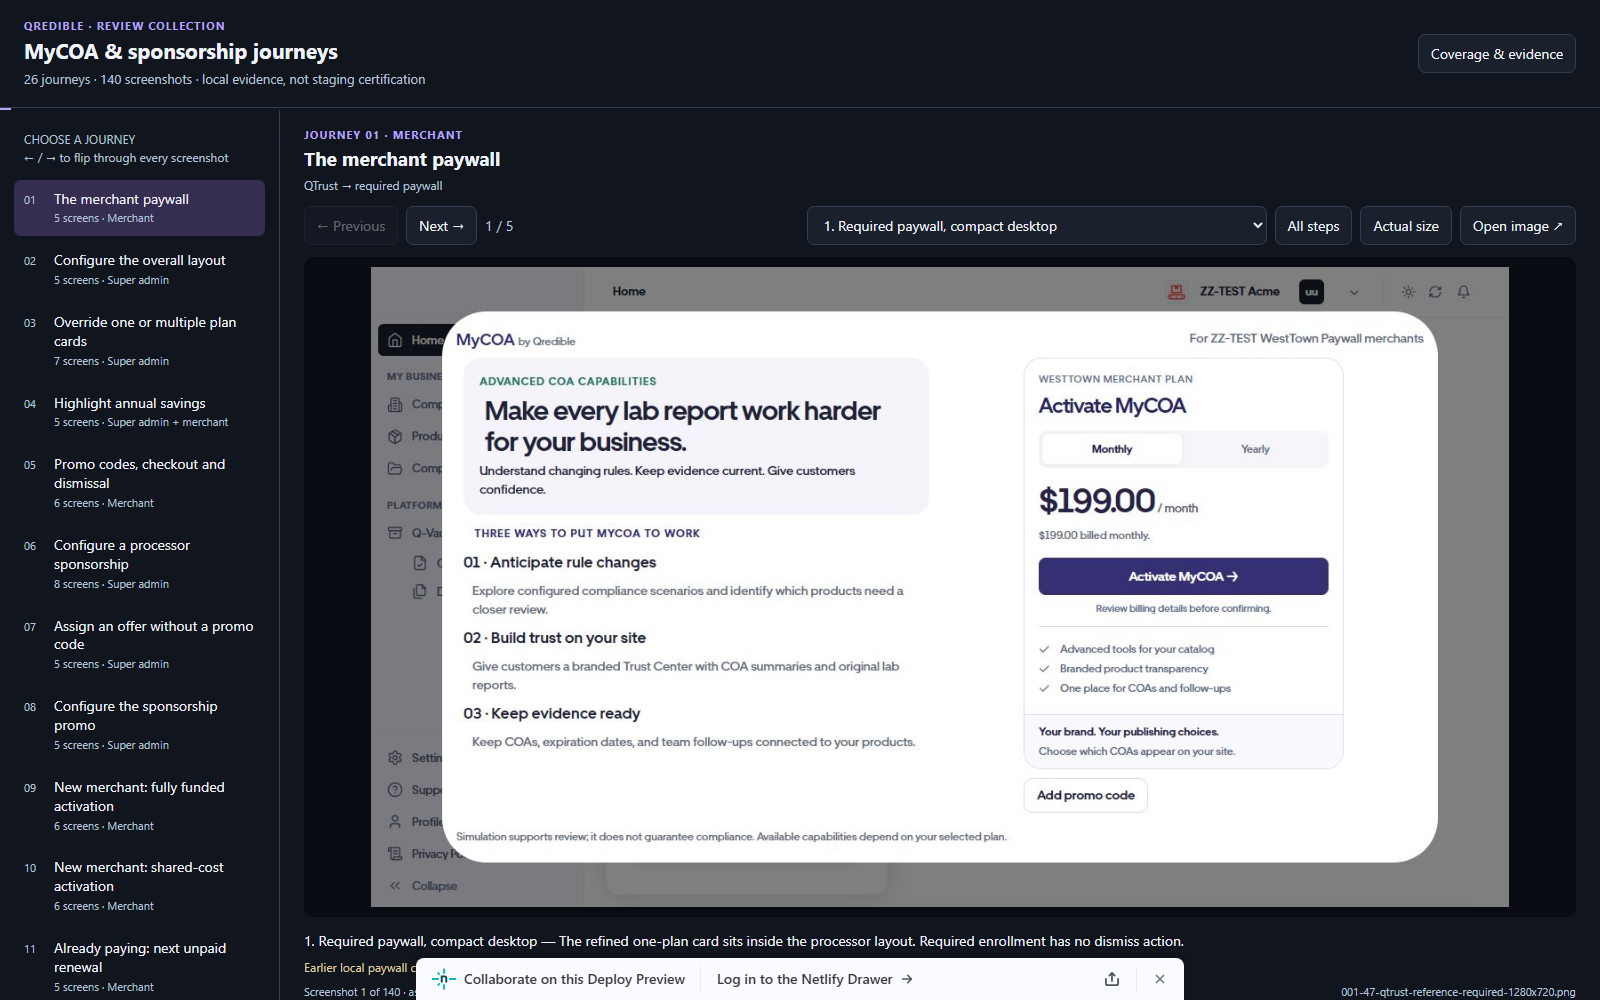
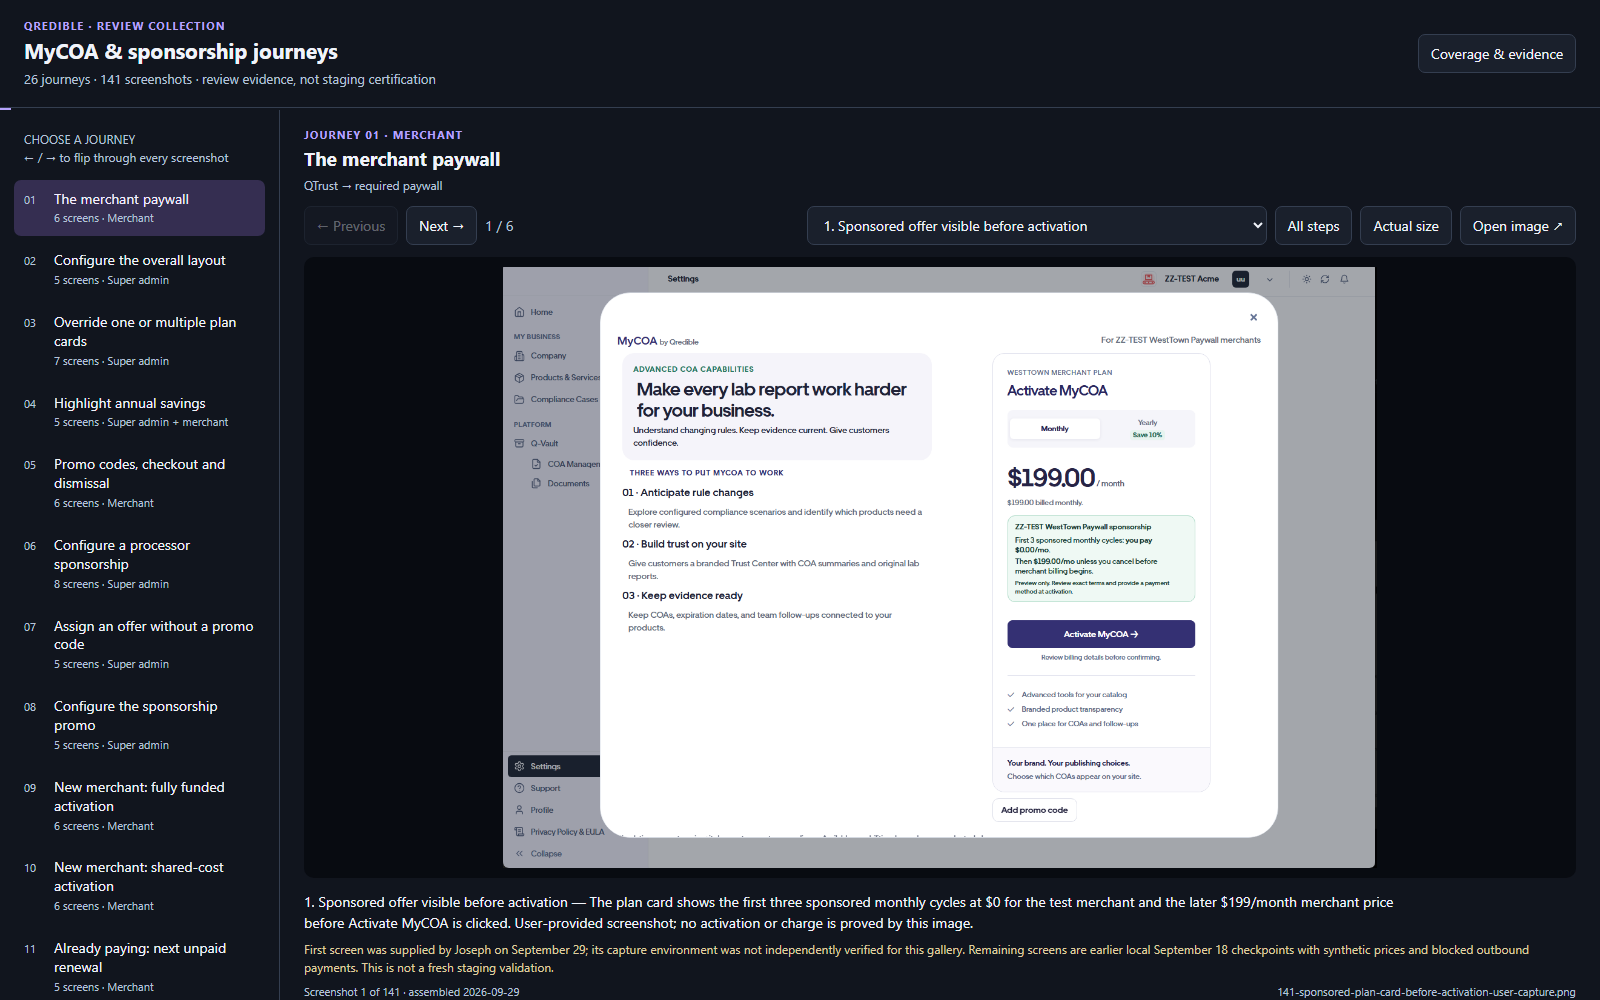
Show sponsored plan terms first in journey gallery

diff --git a/qredible/mycoa-sponsorship-journeys/index.html b/qredible/mycoa-sponsorship-journeys/index.html
@@ -14,12 +14,12 @@
 <div class="toolbar"><button id="prev" aria-label="Previous screenshot">← Previous</button><button id="next" aria-label="Next screenshot">Next →</button><span class="count" id="count" aria-live="polite"></span><label class="sr" for="step">Choose step</label><select id="step"></select><button id="grid" aria-pressed="false">All steps</button><button id="zoom" aria-pressed="false">Actual size</button><a id="original" class="button" target="_blank" rel="noopener">Open image ↗</a></div>
 <div id="stage"><img id="shot" alt=""></div><div id="thumbs"></div>
 <figcaption><p id="caption"></p><p id="boundary"></p><div class="footerline"><span id="position"></span><span id="source"></span></div></figcaption></main></div>
-<dialog id="evidence"><div class="dialog-top"><h2>What these screenshots prove</h2><button id="close">Close</button></div><p>These are existing captures from the actual QTrust and Q-Config applications through their normal UI routes. They are not reconstructed screens or design mockups. This gallery assembly did not rerun the product workflows.</p><ul><li><strong>Paywall chapters:</strong> earlier local September 18 checkpoints. They show the customization and purchase UI, not a newly deployed version.</li><li><strong>Sponsorship chapters:</strong> later local application checkpoints using isolated fixtures. Where payment processing is involved, provider responses and callbacks were simulated.</li><li><strong>Email:</strong> MailHog confirms local message capture, not external inbox receipt.</li><li><strong>Financial examples:</strong> test amounts illustrate configurable rules. They are not current production balances or customer transactions.</li><li><strong>Separate runs:</strong> examples may use different fixture companies, amounts and lifecycle states. Chapters are explanatory sequences, not one continuous customer session.</li></ul><h3>Coverage still missing</h3><p id="coverage"></p><p>Actual NMI settlement, signed public callbacks, external delivery, deployed staging behavior and a real elapsed recurring handoff cannot be certified by these images.</p><h3>Traceability</h3><p>The 140 screenshot images are copied unchanged from the local gallery. Workstation source paths and internal capture metadata are intentionally omitted from this public version. Failed-run diagnostic screenshots are excluded.</p><p>Use Previous / Next or the left and right arrow keys. “All steps” shows the current journey as thumbnails. “Actual size” lets you pan around dense screens; “Open image” opens the untouched image separately.</p></dialog>
+<dialog id="evidence"><div class="dialog-top"><h2>What these screenshots prove</h2><button id="close">Close</button></div><p>Most images are existing captures from the QTrust and Q-Config applications through their normal UI routes. The first merchant-paywall image was supplied by Joseph; its capture environment was not independently verified for this gallery. These are not reconstructed screens or design mockups. This gallery assembly did not rerun the product workflows.</p><ul><li><strong>Paywall chapters:</strong> the new sponsored-plan image shows terms before activation. The other paywall images are earlier local September 18 checkpoints; they show customization and purchase UI, not a newly deployed version.</li><li><strong>Sponsorship chapters:</strong> later local application checkpoints using isolated fixtures. Where payment processing is involved, provider responses and callbacks were simulated.</li><li><strong>Email:</strong> MailHog confirms local message capture, not external inbox receipt.</li><li><strong>Financial examples:</strong> test amounts illustrate configurable rules. They are not current production balances or customer transactions.</li><li><strong>Separate runs:</strong> examples may use different fixture companies, amounts and lifecycle states. Chapters are explanatory sequences, not one continuous customer session.</li></ul><h3>Coverage still missing</h3><p id="coverage"></p><p>Actual NMI settlement, signed public callbacks, external delivery, deployed staging behavior and a real elapsed recurring handoff cannot be certified by these images.</p><h3>Traceability</h3><p>The original 140 images are unchanged from the local gallery; the additional sponsored-plan screenshot is copied byte-for-byte from Joseph's attachment. Workstation source paths and internal capture metadata are intentionally omitted from this public version. Failed-run diagnostic screenshots are excluded.</p><p>Use Previous / Next or the left and right arrow keys. “All steps” shows the current journey as thumbnails. “Actual size” lets you pan around dense screens; “Open image” opens the untouched image separately.</p></dialog>
 <noscript>Enable JavaScript to browse the collection.</noscript>
 <script src="data.js"></script><script>
 const D=window.JOURNEYS,$=id=>document.getElementById(id);let ci=0,si=0,grid=false,zoom=false;
 const buttons=[];D.chapters.forEach((c,i)=>{const b=document.createElement('button');b.type='button';const number=document.createElement('span');number.className='number';number.textContent=String(i+1).padStart(2,'0');const label=document.createElement('span');label.textContent=c.title;const sub=document.createElement('small');sub.textContent=c.slides.length+' screens · '+c.audience;label.append(sub);b.append(number,label);b.onclick=()=>go(i,0);$('chapters').append(b);buttons.push(b);$('journey').add(new Option((i+1)+'. '+c.title,i));});
-$('summary').textContent=D.chapters.length+' journeys · '+D.total+' screenshots · local evidence, not staging certification';$('coverage').textContent=D.coverage;
+$('summary').textContent=D.chapters.length+' journeys · '+D.total+' screenshots · review evidence, not staging certification';$('coverage').textContent=D.coverage;
 function render(){const c=D.chapters[ci],s=c.slides[si];buttons.forEach((b,i)=>b.setAttribute('aria-current',String(i===ci)));$('journey').value=ci;$('audience').textContent='Journey '+String(ci+1).padStart(2,'0')+' · '+c.audience;$('title').textContent=c.title;$('route').textContent=c.route;$('step').replaceChildren();c.slides.forEach((s,i)=>$('step').add(new Option((i+1)+'. '+s.title,i)));$('step').value=si;
 $('shot').src=s.src;$('shot').alt=s.title+' — '+s.caption;$('caption').textContent=(si+1)+'. '+s.title+' — '+s.caption;$('boundary').textContent=c.boundary;$('original').href=s.src;$('count').textContent=(si+1)+' / '+c.slides.length;const offset=D.chapters.slice(0,ci).reduce((a,c)=>a+c.slides.length,0)+si+1;$('position').textContent='Screenshot '+offset+' of '+D.total+' · assembled '+D.assembled;$('source').textContent=s.src.split('/').pop();$('progress').style.width=(offset/D.total*100)+'%';$('prev').disabled=ci===0&&si===0;$('next').disabled=ci===D.chapters.length-1&&si===c.slides.length-1;$('stage').classList.toggle('zoom',zoom);$('zoom').setAttribute('aria-pressed',zoom);$('zoom').textContent=zoom?'Fit screen':'Actual size';$('main').classList.toggle('overview',grid);$('grid').setAttribute('aria-pressed',grid);$('grid').textContent=grid?'Single screen':'All steps';$('thumbs').replaceChildren();if(grid)c.slides.forEach((s,i)=>{const b=document.createElement('button'),img=document.createElement('img'),label=document.createElement('span');img.src=s.src;img.alt='';img.loading='lazy';label.textContent=(i+1)+'. '+s.title;b.append(img,label);b.onclick=()=>{grid=false;go(ci,i)};$('thumbs').append(b)});history.replaceState(null,'','#journey='+(ci+1)+'&step='+(si+1));}
 function go(c,s){ci=c;si=s;$('stage').scrollTo(0,0);render()}

diff --git a/qredible/mycoa-sponsorship-journeys/data.js b/qredible/mycoa-sponsorship-journeys/data.js
@@ -1,14 +1,19 @@
 window.JOURNEYS = {
   "title": "MyCOA & sponsorship — journey review",
-  "assembled": "2026-09-28",
-  "total": 140,
+  "assembled": "2026-09-29",
+  "total": 141,
   "chapters": [
     {
       "title": "The merchant paywall",
       "audience": "Merchant",
       "route": "QTrust → required paywall",
-      "boundary": "Earlier local paywall checkpoint · September 18. Actual application routes; synthetic prices and blocked outbound payments. This is not a fresh staging validation.",
+      "boundary": "First screen was supplied by Joseph on September 29; its capture environment was not independently verified for this gallery. Remaining screens are earlier local September 18 checkpoints with synthetic prices and blocked outbound payments. This is not a fresh staging validation.",
       "slides": [
+        {
+          "title": "Sponsored offer visible before activation",
+          "caption": "The plan card shows the first three sponsored monthly cycles at $0 for the test merchant and the later $199/month merchant price before Activate MyCOA is clicked. User-provided screenshot; no activation or charge is proved by this image.",
+          "src": "assets/141-sponsored-plan-card-before-activation-user-capture.png"
+        },
         {
           "title": "Required paywall, compact desktop",
           "caption": "The refined one-plan card sits inside the processor layout. Required enrollment has no dismiss action.",
@@ -912,5 +917,5 @@ window.JOURNEYS = {
       ]
     }
   ],
-  "coverage": "This collection assembles existing actual-application captures; it is not a new end-to-end run. Current existing-subscriber repricing screens ($199 to $175: notice preview, scheduling, cancellation and notice history) were not located in the evidence set and are not represented as proven here. Gateway settlement, real external email delivery, deployed staging behavior and a real elapsed billing handoff remain separate validation items."
+  "coverage": "This collection assembles existing application captures plus one user-provided sponsored-plan screenshot; it is not a new product end-to-end run. The user-provided capture's environment was not independently verified for this gallery. Current existing-subscriber repricing screens ($199 to $175: notice preview, scheduling, cancellation and notice history) were not located in the evidence set and are not represented as proven here. Gateway settlement, real external email delivery, deployed staging behavior and a real elapsed billing handoff remain separate validation items."
 };

diff --git a/qredible/index.html b/qredible/index.html
@@ -275,7 +275,7 @@
         </div>
       </div>
       <div class="card-name">MyCOA &amp; Sponsorship Journey Gallery</div>
-      <p class="card-desc">Flip through 26 journeys and 140 application screenshots covering the merchant paywall, Q-Config sponsorship programs, offers, promo codes, processor invoices and cancellations. Captures are from local test runs; the gallery clearly marks what remains unverified in staging and with the payment provider.</p>
+      <p class="card-desc">Flip through 26 journeys and 141 screenshots covering the merchant paywall, Q-Config sponsorship programs, offers, promo codes, processor invoices and cancellations. The first paywall image shows the sponsored terms before activation. Most captures are from local test runs; that added image was supplied by Joseph. The gallery marks what remains unverified in staging and with the payment provider.</p>
       <div class="card-pills">
         <span class="pill pill-blue">QTrust + Q-Config</span>
         <span class="pill pill-yellow">Local test evidence</span>

diff --git a/validation/mycoa-gallery/README.md b/validation/mycoa-gallery/README.md
@@ -3,13 +3,17 @@
 The static gallery is published from `qredible/mycoa-sponsorship-journeys/` to
 `https://jfloyd-qredible.netlify.app/mycoa-sponsorship-journeys/`.
 
-It assembles 26 journeys and 140 existing application screenshots. The gallery
-is a review aid, not proof of deployed staging behavior, payment-provider
-settlement, or external email delivery. Its screenshots are unchanged; the
-public `data.js` omits workstation source paths and capture metadata. The
-original manifest stays outside this public repository.
+It assembles 26 journeys and 141 screenshots: 140 existing local-application
+captures and one user-provided screenshot of the sponsorship terms on the plan
+card before activation. The new capture's environment was not independently
+verified for this gallery. This is a review aid, not proof of deployed staging
+behavior, payment-provider settlement, or external email delivery. Images are
+unchanged; the public `data.js` omits workstation source paths and capture
+metadata. The original manifest stays outside this public repository.
 
-To rebuild `data.js` from a local copy of the private gallery:
+To rebuild `data.js` from a local copy of the private gallery, run the
+sanitizer below. It also inserts the public-only user-provided slide once;
+that image is not in the older private source manifest.
 
 ```powershell
 node validation/mycoa-gallery/sanitize-data.cjs <local-gallery-data.js> qredible/mycoa-sponsorship-journeys/data.js
@@ -27,7 +31,7 @@ node validation/mycoa-gallery/validate.cjs
 The validator requires Playwright and Chromium installed. If Playwright is not
 available through Node's normal module resolution, set `PLAYWRIGHT_MODULE` to
 its module path. `CHROMIUM_PATH` can select a specific Chromium binary.
-`result.json` and the three PNGs in this folder record the deployed Netlify
-PR-preview route run on September 29, 2026. The same checks passed first
-against the local full-site route. This validates gallery integrity and
-navigation only, not the underlying QTrust/Q-Config product workflows.
+`result.json` identifies the exact URL for the latest Playwright run, and the
+three PNGs in this folder show the resulting index and gallery states. This
+validates gallery integrity and navigation only, not the underlying
+QTrust/Q-Config product workflows.
